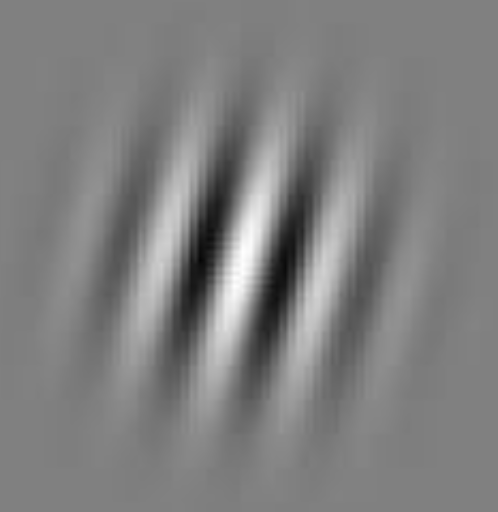
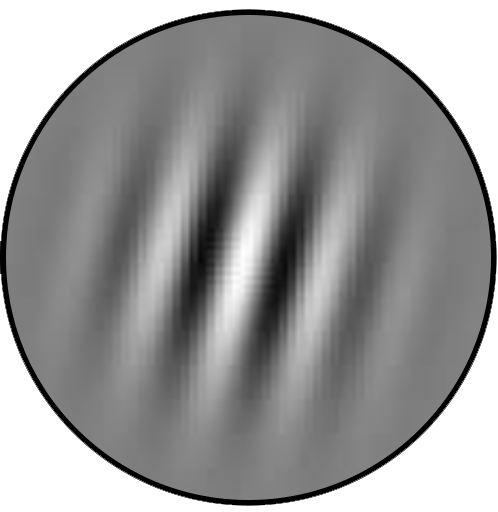
Fixing an issue and adding gabor skeleton

Changed region(s): [[0.0, 0.0, 1.0, 1.0]]

diff --git a/assets/js/stimulus.js b/assets/js/stimulus.js
@@ -234,7 +234,7 @@ function resolveStimulusWindow() {
 // //////////////////////////// //////////////////////////// //////////////////////////// //
 
 function createGaussianStimulus(x=0,y=0,rad=30) {
-	gaussian = views.stim.stimulusWindow.addChild(new Gaussian(x-rad,y-rad,rad));
+	var gaussian = views.stim.stimulusWindow.addChild(new Gaussian(x-rad,y-rad,rad));
 	gaussian.start(); // you still have to start -- otherwise it doesn't draw
 	// technically with the gaussian you don't need to re-draw each frame...
 }
@@ -263,7 +263,28 @@ class Gaussian extends Stimulus {
 // //////////////////////////// //////////////////////////// //////////////////////////// //
 
 function createGaborStimulus(x=0,y=0,rad=30) {
-	console.log('todo');
+	var gabor = views.stim.stimulusWindow.addChild(new Gabor(x-rad,y-rad,rad));
+	gabor.start();
+}
+
+class Gabor extends Stimulus {
+	constructor(x,y,radius) {
+		super('gaussian',computePartialSensitivity,x,y,radius*2,radius*2);
+
+
+		this._size = radius;
+		this._ecc = this._size+this._size/5 
+
+		this.graphics = this.stimulus.addChild(new PIXI.Graphics());
+
+		this.sortChildren();
+	}
+
+	draw(gaussian) {
+		gaussian.graphics.clear();
+		gaussian.graphics.beginFill(0xFFFFFF,1);
+		gaussian.graphics.drawCircle(gaussian.size,gaussian.size,gaussian.size);
+	}
 }
 
 // //////////////////////////// //////////////////////////// //////////////////////////// //
@@ -271,7 +292,7 @@ function createGaborStimulus(x=0,y=0,rad=30) {
 // //////////////////////////// //////////////////////////// //////////////////////////// //
 
 function createMotionStimulus(x=0,y=0,rad=40) {
-	motion = views.stim.stimulusWindow.addChild(new Motion(x-rad,y-rad,rad));
+	var motion = views.stim.stimulusWindow.addChild(new Motion(x-rad,y-rad,rad));
 	motion.start();
 }
 
